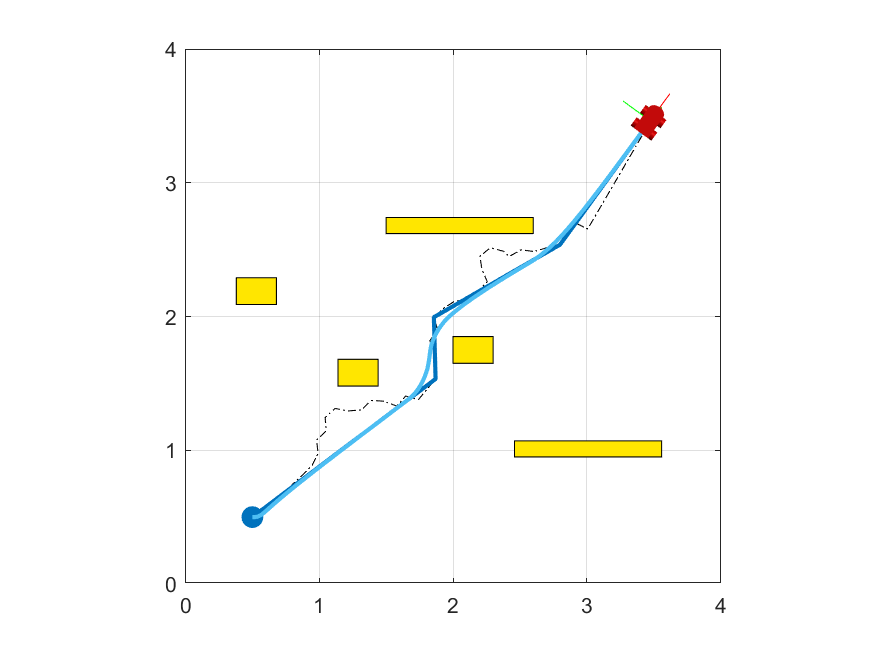
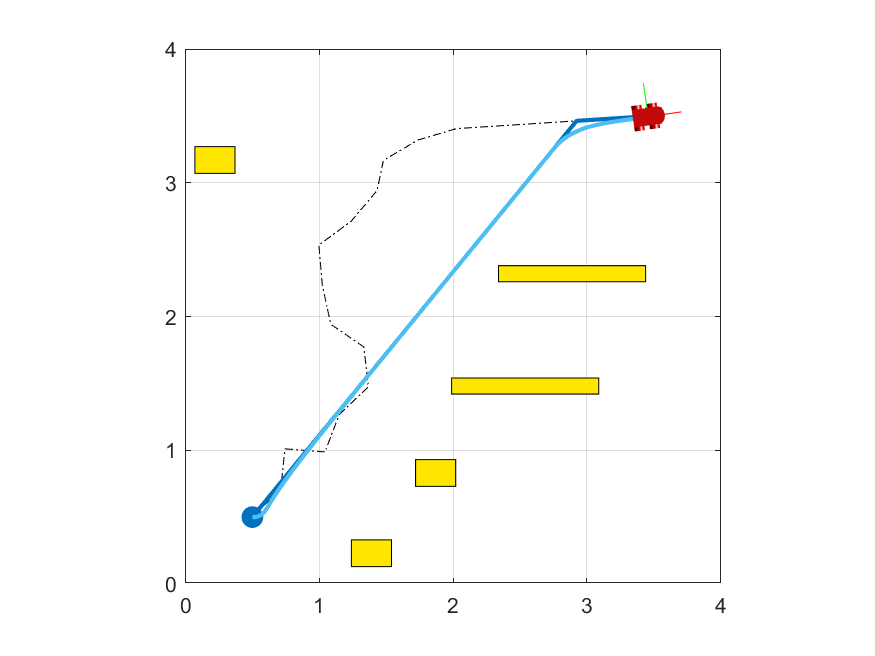
fix bug in getPath2Goal

diff --git a/RRTGraph.m b/RRTGraph.m
@@ -18,7 +18,7 @@ classdef RRTGraph
         goalFlag = 0
         path = []
         
-        dMax = 0.1
+        dMax = 0.3
     end
     
     methods
@@ -132,12 +132,16 @@ classdef RRTGraph
         function obj = getPath2Goal(obj)
             if obj.goalFlag
                 obj.path = obj.goalState;
-                newPos = obj.parent(obj.goalState);
-                while newPos ~= 1
-                    obj.path = [obj.path; newPos];
-                    newPos = obj.parent(newPos);
+                try
+                    newPos = obj.parent(obj.goalState);
+                    while newPos ~= 1
+                        obj.path = [obj.path; newPos];
+                        newPos = obj.parent(newPos);
+                    end
+                    obj.path = [obj.path; 1];
+                catch
+                    obj.goalFlag = 0;
                 end
-                obj.path = [obj.path; 1];
             end
         end
         

diff --git a/main.m b/main.m
@@ -1,6 +1,7 @@
 clear
 % All dimensions are in meter
 % Rectangle are shaped by width and height
+
 %% Initialize environment
 [start, goal, mapSize, mapMatrix, obstacles] = initMap();
 
@@ -12,10 +13,16 @@ iter = 0;
 while ~rrt.goalFlag
     if mod(iter, biasIter) == 0
         rrt = rrt.bias(goal);
-        plot(rrt.treeCoors(end, 1), rrt.treeCoors(end, 2), 'c.');
+        if size(rrt.treeCoors, 1) ~= 1
+            branch = [rrt.treeCoors(end, :); rrt.treeCoors(rrt.parent(end), :)];
+            plot(branch(:, 1), branch(:, 2), 'c-.');
+        end
     else
         rrt = rrt.expand();
-        plot(rrt.treeCoors(end, 1), rrt.treeCoors(end, 2), 'c.');
+        if size(rrt.treeCoors, 1) ~= 1
+            branch = [rrt.treeCoors(end, :); rrt.treeCoors(rrt.parent(end), :)];
+            plot(branch(:, 1), branch(:, 2), 'c-.');
+        end
     end
     
     rrt = rrt.getPath2Goal();

diff --git a/testRRT.m b/testRRT.m
@@ -4,15 +4,21 @@ close all
 [start, goal, mapSize, mapMatrix] = initMap();
 rrt = RRTGraph(start, goal, mapMatrix, mapSize);
 
-biasIter = 4;
+biasIter = 3;
 iter = 0;
 while ~rrt.goalFlag
     if mod(iter, biasIter) == 0
         rrt = rrt.bias(goal);
-        plot(rrt.treeCoors(end, 1), rrt.treeCoors(end, 2), 'c.');
+        if size(rrt.treeCoors, 1) ~= 1
+            branch = [rrt.treeCoors(end, :); rrt.treeCoors(rrt.parent(end), :)];
+            plot(branch(:, 1), branch(:, 2), 'c-.');
+        end
     else
         rrt = rrt.expand();
-        plot(rrt.treeCoors(end, 1), rrt.treeCoors(end, 2), 'c.');
+        if size(rrt.treeCoors, 1) ~= 1
+            branch = [rrt.treeCoors(end, :); rrt.treeCoors(rrt.parent(end), :)];
+            plot(branch(:, 1), branch(:, 2), 'c-.');
+        end
     end
     
     rrt = rrt.getPath2Goal();
